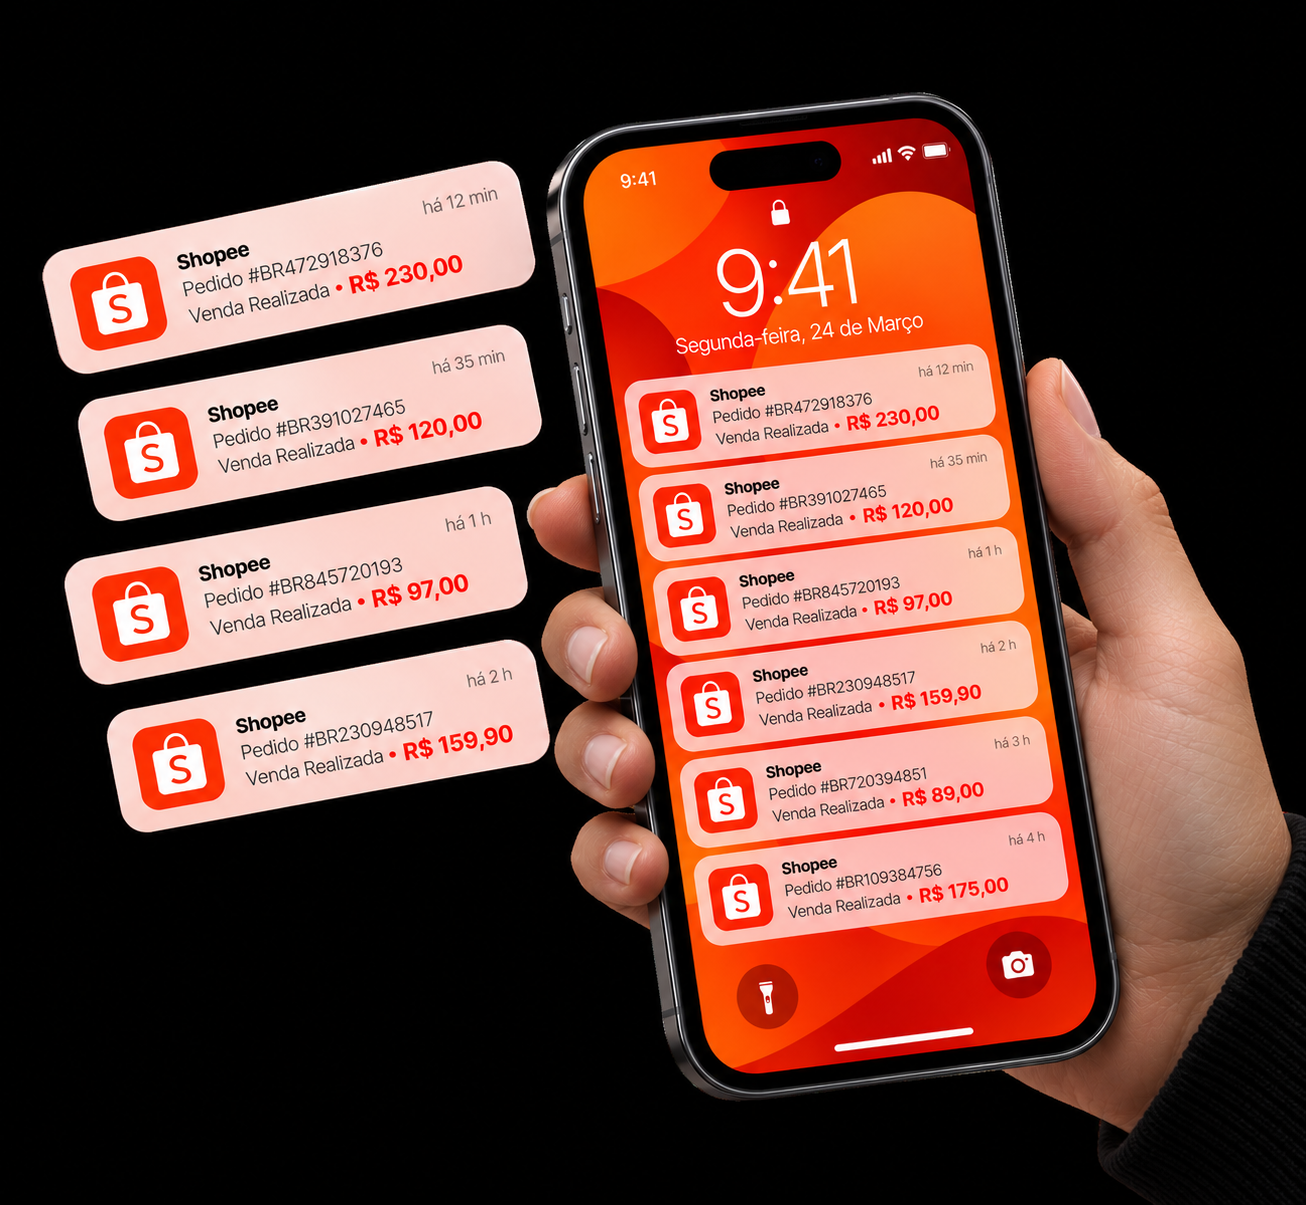
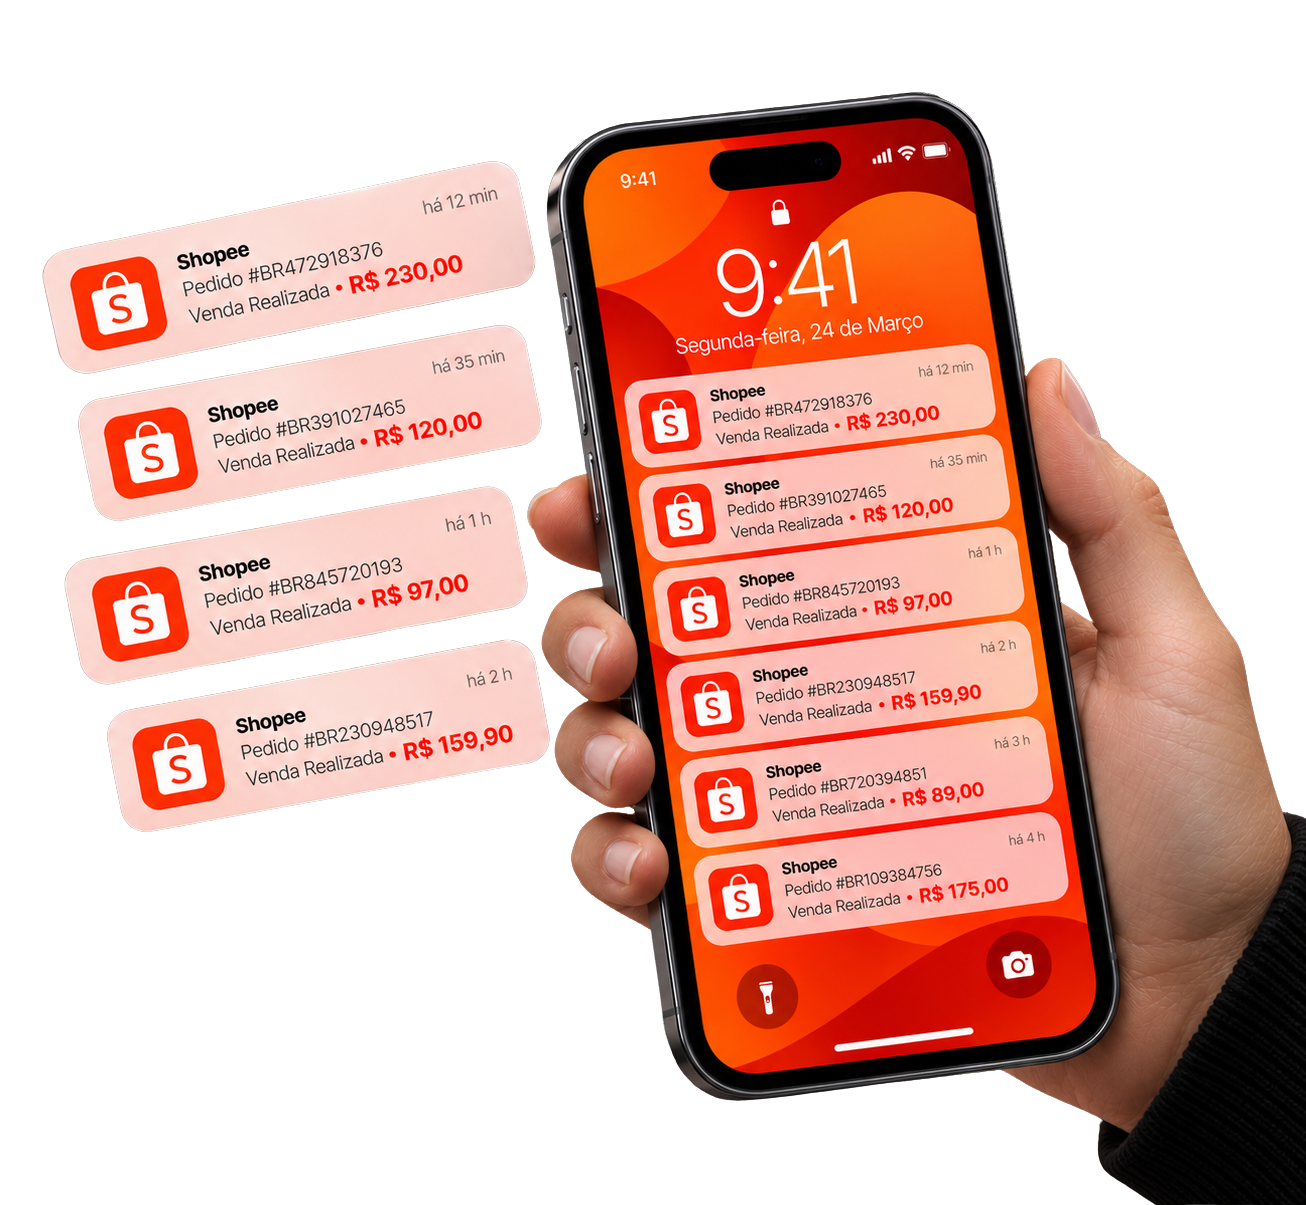
Use transparent phone mockup flush to the right edge

diff --git a/src/app/page.tsx b/src/app/page.tsx
@@ -430,15 +430,15 @@ export default function ShopeePage() {
 
             {/* Celular no meio da lista: pausa visual entre os dois blocos de itens. */}
             <CheckList items={INCLUDES.slice(0, 7)} className="mt-10" />
-            {/* Fundo preto da imagem vira faixa de ponta a ponta; encostada à direita, a manga sai pela borda da tela. */}
-            <div className="sp-dark-band relative left-1/2 my-10 w-screen -translate-x-1/2">
+            {/* O braço sai pelo canto direito da imagem, então ela encosta na borda da tela. */}
+            <div className="relative left-1/2 my-10 w-screen -translate-x-1/2">
               <Image
                 src={`${IMG}/${PHONE_MOCKUP.img}`}
                 alt="Mão segurando um celular com notificações de vendas realizadas na Shopee"
                 width={PHONE_MOCKUP.w}
                 height={PHONE_MOCKUP.h}
-                sizes="(min-width: 760px) 760px, 100vw"
-                className="sp-band-mockup ml-auto w-full"
+                sizes="(min-width: 700px) 640px, 92vw"
+                className="sp-edge-mockup ml-auto w-[92%]"
               />
             </div>
             <CheckList items={INCLUDES.slice(7)} />

diff --git a/src/app/globals.css b/src/app/globals.css
@@ -254,12 +254,11 @@ img {
 
 /* ---------- Botão ---------- */
 
-/* Faixa preta de ponta a ponta para o mockup de fundo preto. */
-.sp-dark-band {
-  background: #000;
-}
-.sp-band-mockup {
-  max-width: 760px;
+/* Mockup que encosta na borda direita: a manga some suave na base, sem corte reto. */
+.sp-edge-mockup {
+  max-width: 640px;
+  -webkit-mask-image: linear-gradient(180deg, #000 88%, transparent 100%);
+  mask-image: linear-gradient(180deg, #000 88%, transparent 100%);
 }
 
 /* Âncora de preço do hero: direto sobre o laranja, sem caixa. */
